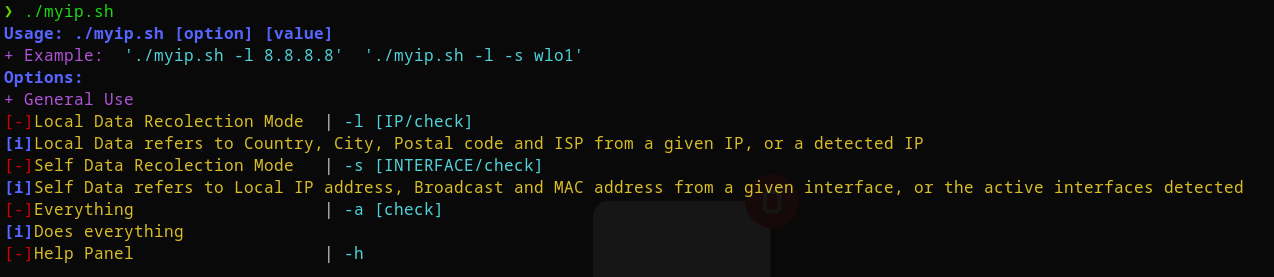
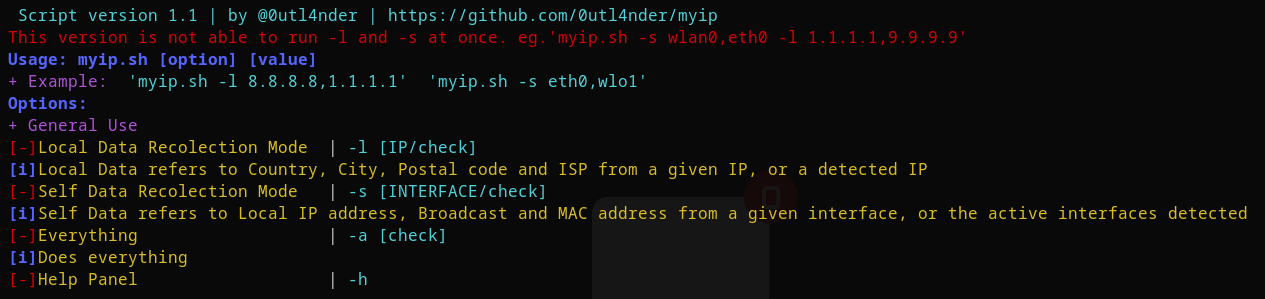
Version 1.1

diff --git a/README.md b/README.md
@@ -2,6 +2,8 @@
 
 ### This script automates the Local IP's and Private interfaces, data recolection
 
+> _[invite me a coffee](https://www.paypal.com/donate/?hosted_button_id=9GUQPSB3SH63W)_
+
 ## Usage
 
 > `-a check`
@@ -12,30 +14,30 @@ This will provide you all the data related with your detected active interfaces 
 >
 > This will only provide you all the data related with the IP you have written.
 
-- Example
-- - `myip.sh -l 8.8.8.8` This will provide `Country | City | ZIP (postal code) | ISP (internet service provider)` of **that IP**
+-   Example
+-   -   `myip.sh -l 8.8.8.8` This will provide `Country | City | ZIP (postal code) | ISP (internet service provider)` of **that IP**
 
 ---
 
-- - `myip.sh -l 8.8.8.8,9.9.9.9` This will provide `Country | City | ZIP (postal code) | ISP (internet service provider)` of that **group of IP's**
+-   -   `myip.sh -l 8.8.8.8,9.9.9.9` This will provide `Country | City | ZIP (postal code) | ISP (internet service provider)` of that **group of IP's**
 
 ---
 
-- - `myip.sh -l check` This will provide `IP | Country | City | ZIP (postal code) | ISP (internet service provider)` of the **IP which is able to detect** (yours)
+-   -   `myip.sh -l check` This will provide `IP | Country | City | ZIP (postal code) | ISP (internet service provider)` of the **IP which is able to detect** (yours)
 
 > `-s [INTERFACE/check]`
 >
 > This will only provide you all the data related with the IP you have written.
 
-- Example
-- - `myip.sh -s eth0` This will provide `name | IP | Broadcast | Mac Address` of **that interface**
+-   Example
+-   -   `myip.sh -s eth0` This will provide `name | IP | Broadcast | Mac Address` of **that interface**
 
 ---
 
-- - `myip.sh -s eth0,wlo1` This will provide `name | IP | Broadcast | Mac Address` of that **group of interfaces**
+-   -   `myip.sh -s eth0,wlo1` This will provide `name | IP | Broadcast | Mac Address` of that **group of interfaces**
 
 ---
 
-- - `myip.sh -s check`This will provide `name | IP | Broadcast | Mac Address` of the **active interfaces which is able to detect** (yours)
+-   -   `myip.sh -s check`This will provide `name | IP | Broadcast | Mac Address` of the **active interfaces which is able to detect** (yours)
 
-![enter image description here](a)
+![Picture](https://github.com/0utl4nder/myip/blob/main/myip.png?raw=true)
